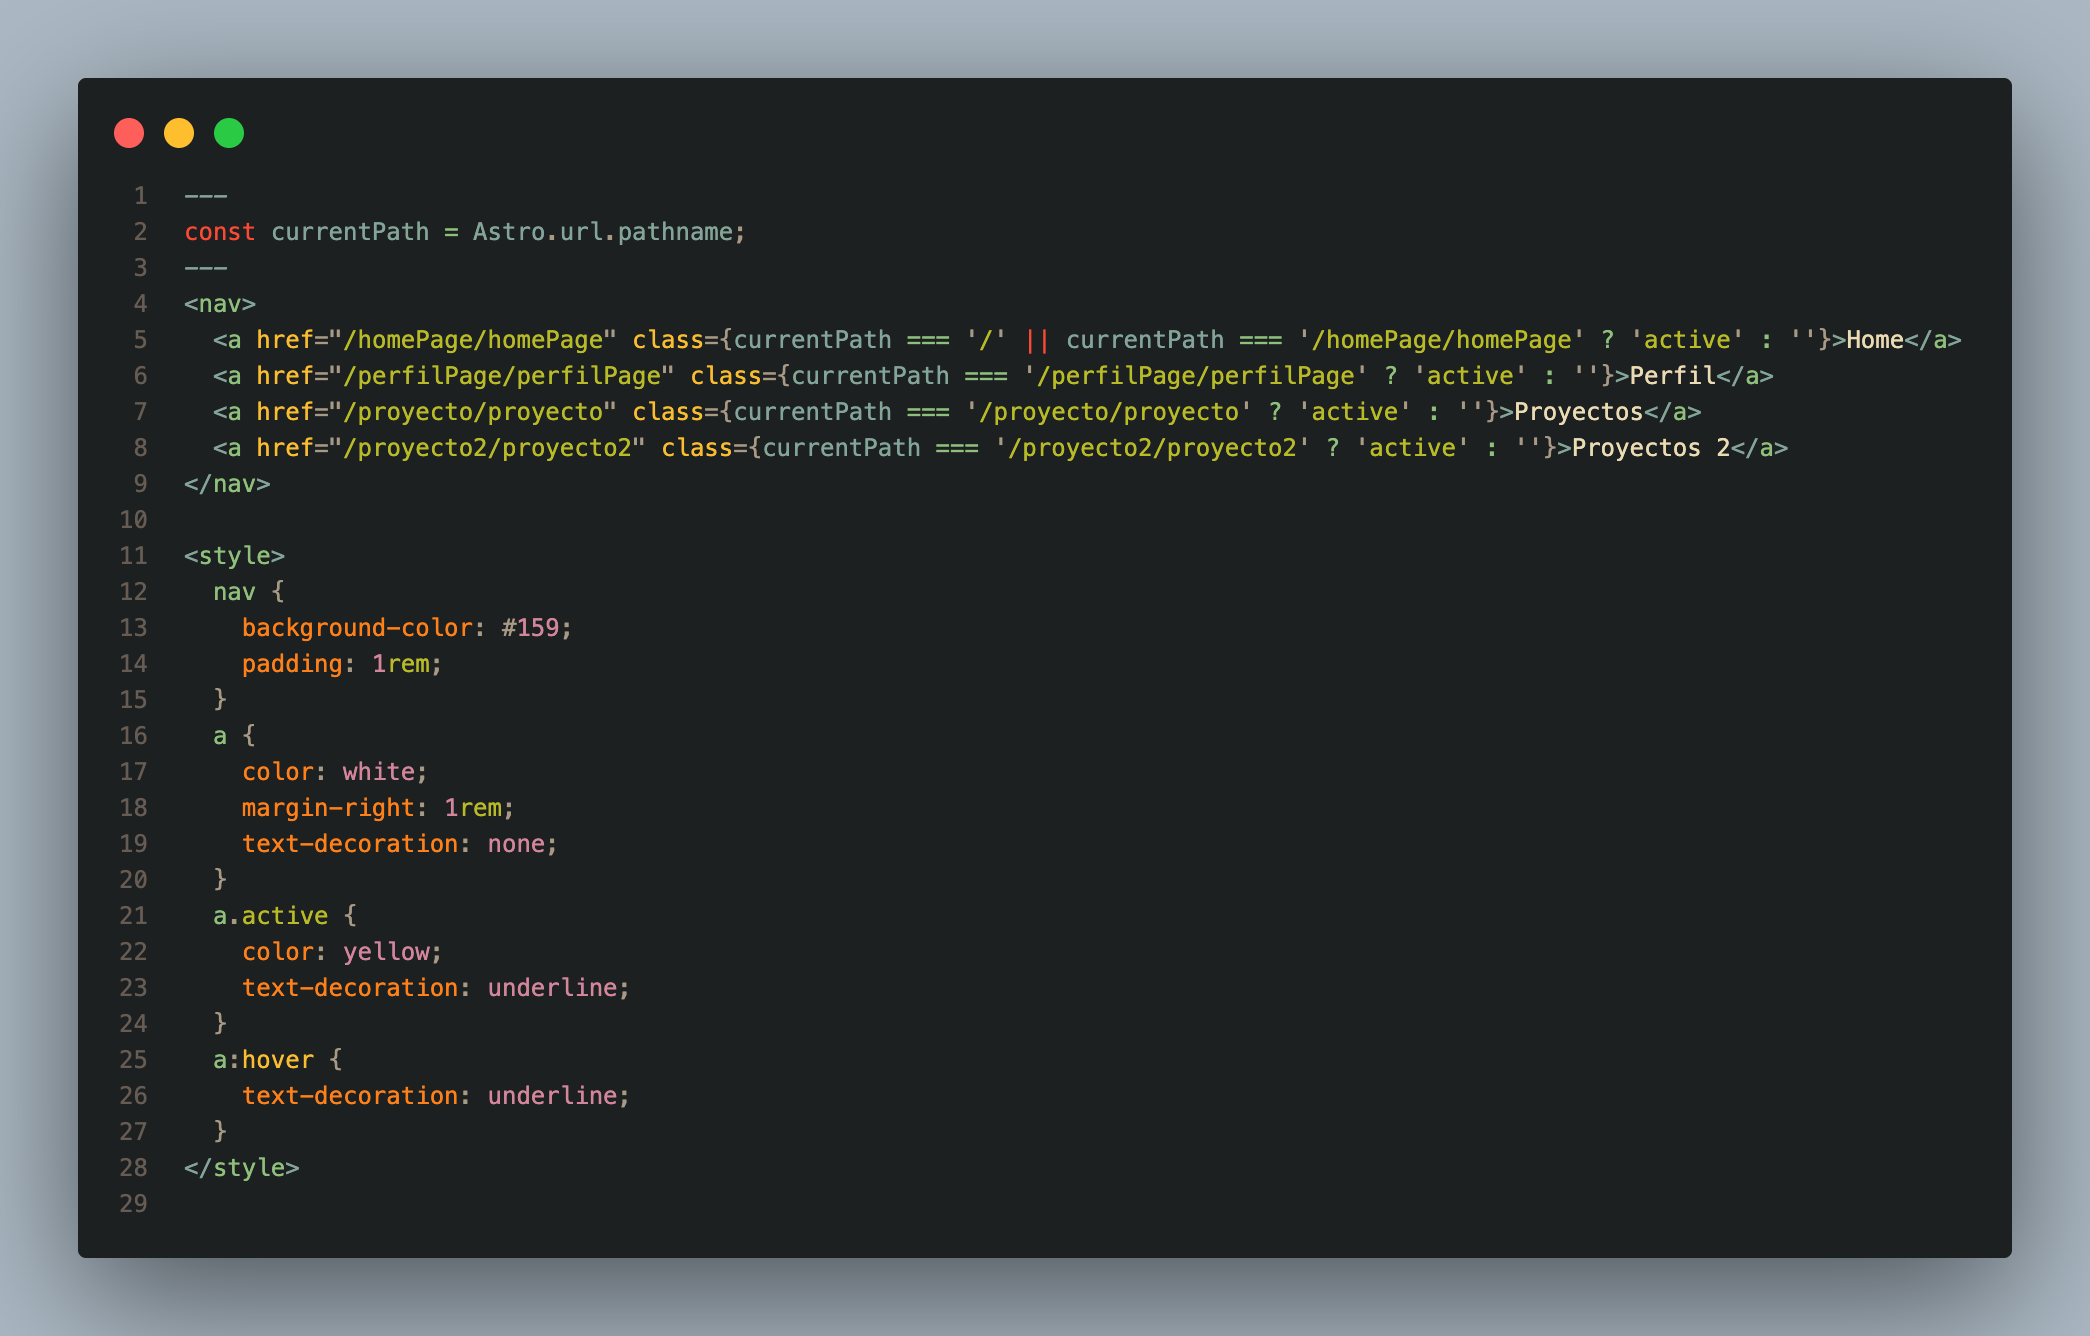
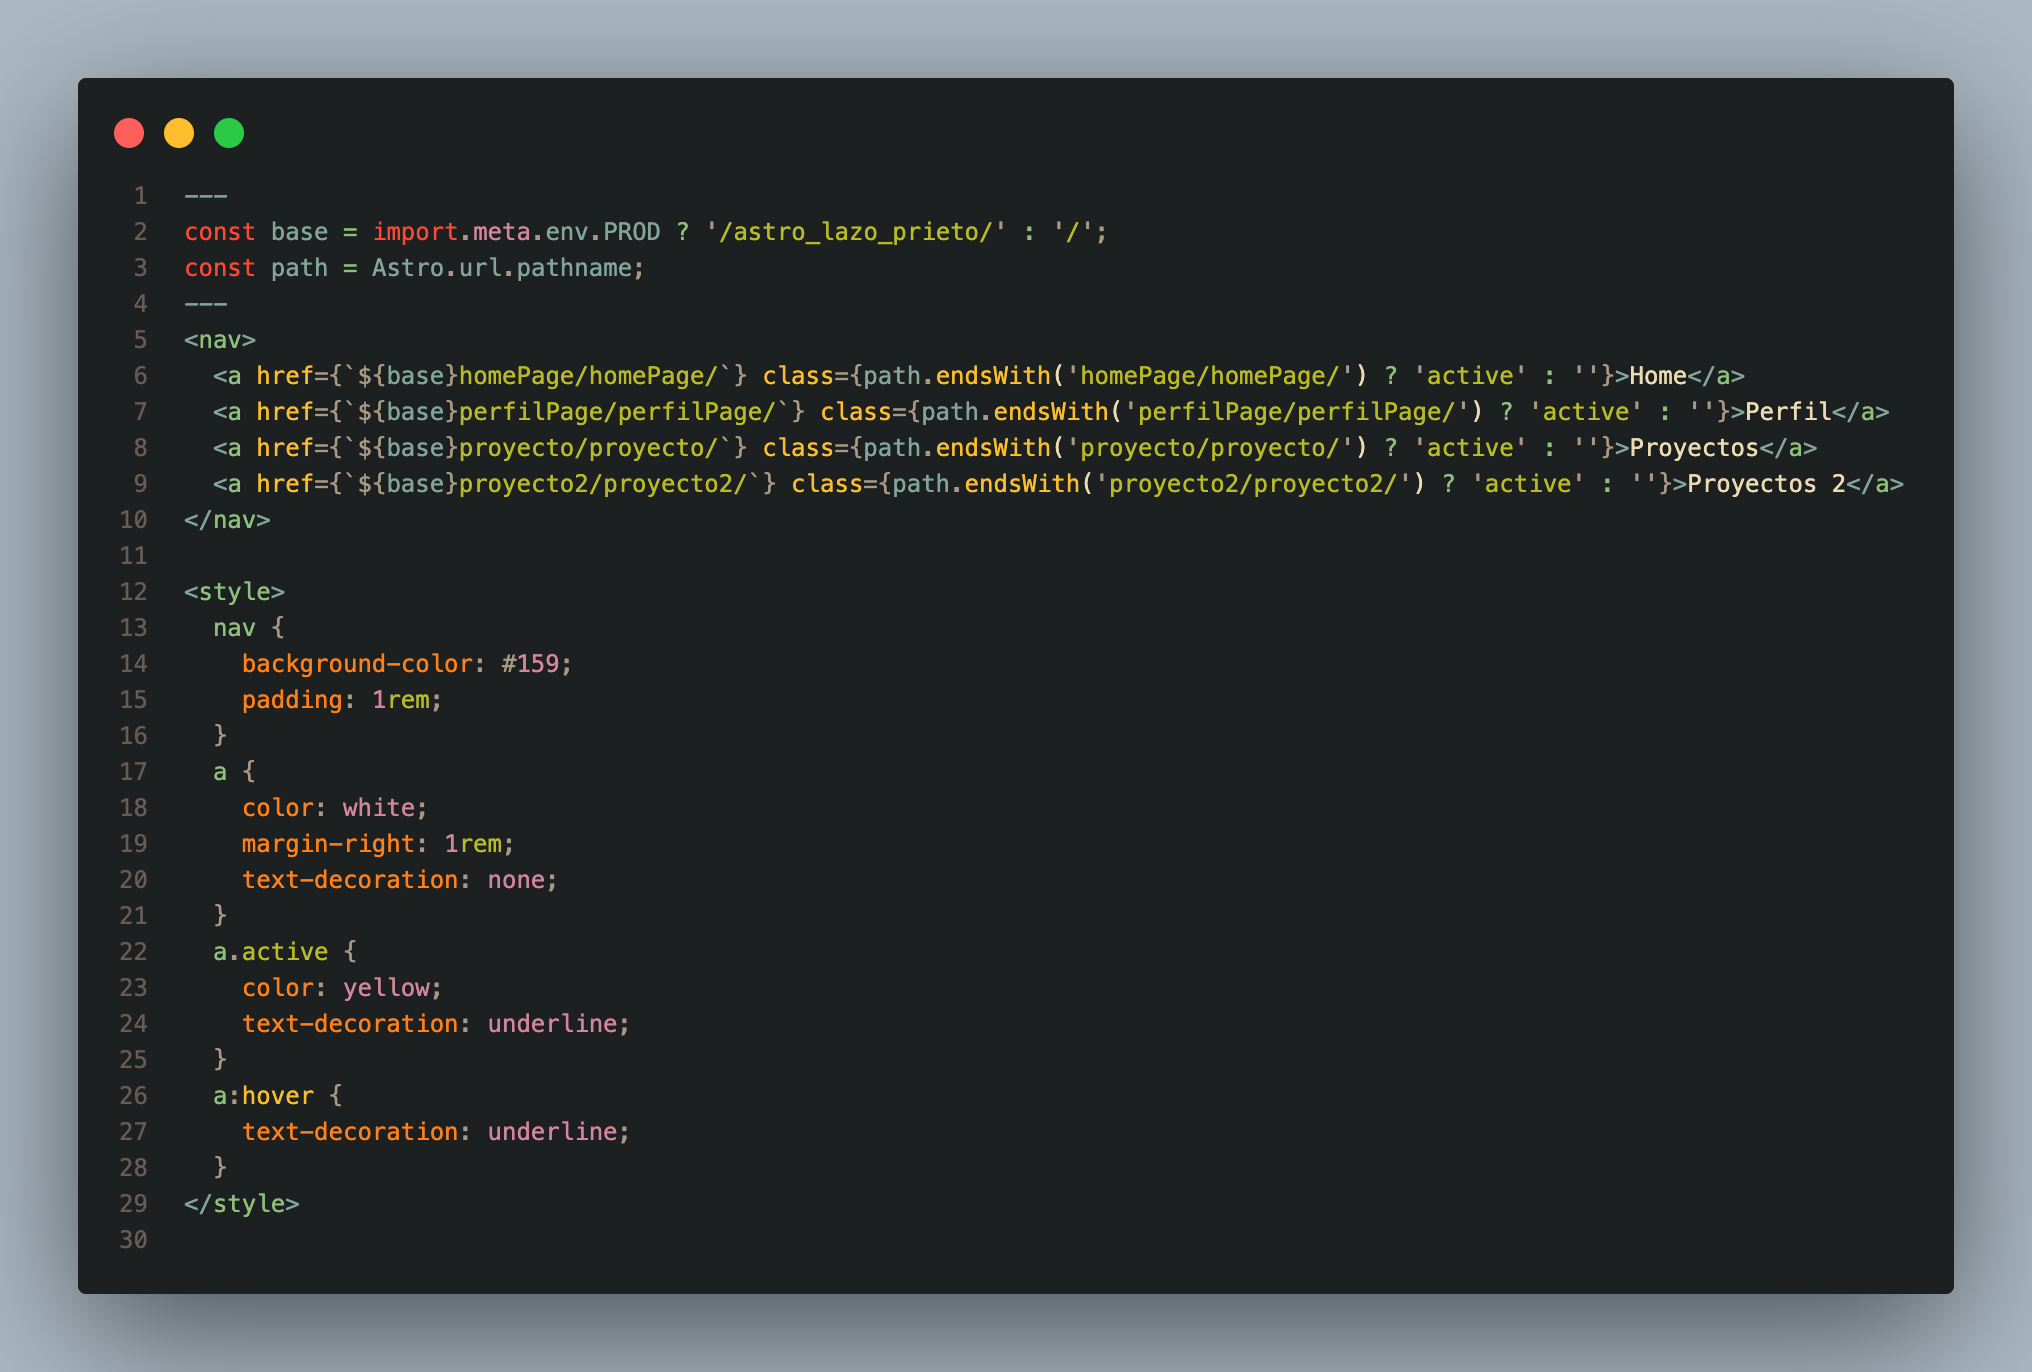
fix: screenshots

diff --git a/astro/lazo_prieto/03-Navegación.md b/astro/lazo_prieto/03-Navegación.md
@@ -211,21 +211,21 @@ Sigue estos pasos para implementar la navegación en tu proyecto Angular:
 
 ## Capturas de Implementación
 
-### 1. Configuración de Rutas (app.routes.ts)
+### 1. Configuración de Rutas
 En Astro, cada archivo .astro dentro de src/pages genera automáticamente una ruta, por lo que podemos mostrar la estructura de carpetas como “configuración de rutas”:
 
 <div style="text-align: center;">
   <img src="assets/capturas/componentes/03_rutas.png" width="70%" alt="Rutas">
 </div>
 
-### 2. Navegación con RouterLink
-El `<nav>` define la barra de navegación de la aplicación. Cada enlace apunta a una página de Astro (Home, Perfil, Proyectos, Proyectos 2) y la condición class={currentPath === '...' ? 'active' : ''} resalta el enlace de la página actual.
-
+### 2. Navegación 
+El `<nav>` define la barra de navegación de la aplicación. Cada enlace apunta a una página de Astro (Home, Perfil, Proyectos, Proyectos 2), además, se le hizo para compatibilidad con gh-pages.
 <div style="text-align: center;">
   <img src="assets/capturas/componentes/03_navegacion.png" width="100%" alt="Navegacion">
 </div>
 
 ### 3. Componente con Navegación
+![alt text](image.png)
 <div style="text-align: center;">
   <img src="assets/capturas/componentes/03_navbar.png" width="100%" alt="NavBar">
 </div>
